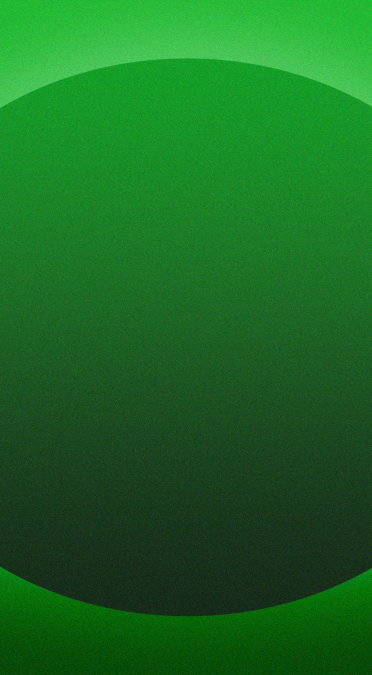
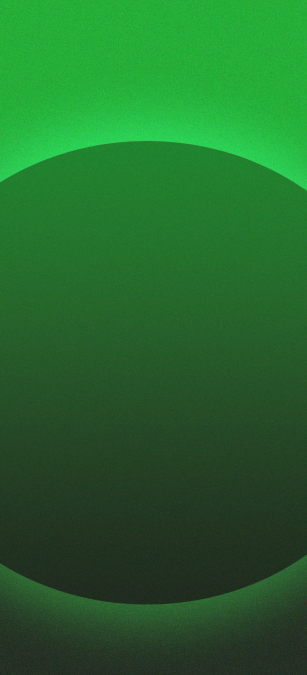
seeeee

Changed region(s): [[0.0, 0.0311, 1.0, 0.28], [0.0, 0.8089, 1.0, 1.0]]

diff --git a/src/components/subcomponents/Service.jsx b/src/components/subcomponents/Service.jsx
@@ -2,7 +2,7 @@ import React from "react";
 import blueprint from "../../../public/images/blueprint.png";
 import greenring from "../../../public/assets/greenring.png";
 import greentop from "../../../public/assets/greentop.png";
-import greenbottom from "../../../public/assets/greenbottom.png";
+import greenbottom from "../../../public/assets/gbg.png";
 import grain from "../../../public/images/grainy.png";
 import Image from "next/image";
 import localFont from "next/font/local";
@@ -34,16 +34,8 @@ const Service = ({
         className="flex flex-col relative justify-center border-black px-6 md:px-14 overflow-hidden py-12"
       >
         <Image
-          src={grain}
-          className="absolute xl:visible invisible top-0 left-0 h-full opacity-10"
-        />
-        <Image
-          src={greentop}
-          className="absolute xl:visible invisible left-0 w-full top-[-35%] object-contain mix-blend-screen saturate-200 z-10"
-        />
-        <Image
           src={greenbottom}
-          className="absolute xl:visible invisible left-0 w-full bottom-0 object-contain mix-blend-screen saturate-200 z-10"
+          className="absolute xl:visible invisible left-0 w-full bottom-0 object-contain z-10"
         />
         <h1
           className={`sm:text-[400px] text-[200px] leading-tight text-center text-transparent bg-clip-text bg-gradient-to-b z-10 from-black to-70% ${thunder.className}`}
